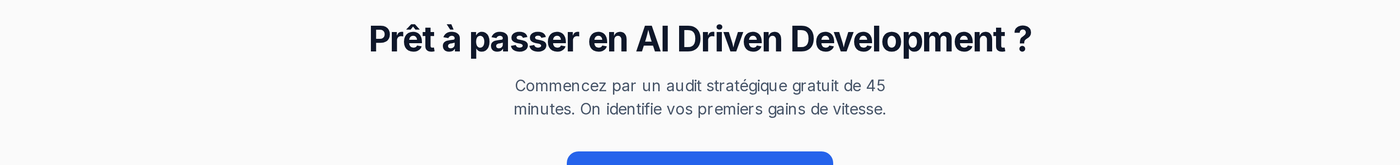
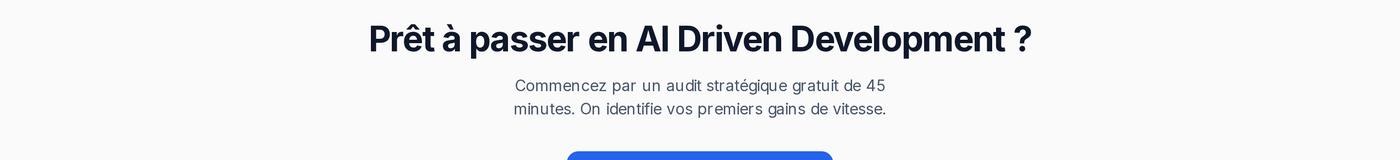
fix(exploded): bande Hero prise sur le bloc titre, bande Conversion apres son apparition
La bande Hero montrait l ecran de chargement du site (logo seul) : elle est desormais prise
sur le bloc qui porte le badge et le h1 (14,1 % de texte contre 1,9 %). La bande Conversion
etait capturee pendant son animation de reveal (titre gris a 111/255) : recapturee apres,
elle est en noir franc.

diff --git a/src/shots.js b/src/shots.js
@@ -10,8 +10,8 @@ export const DIM={
   mfa_desktop:[1920,1200], services_desktop:[1920,1200], pricing_desktop:[1920,1200],
   formation_desktop:[1920,1200], references_desktop:[1920,1200], casusage_desktop:[1920,1200],
   conseil_desktop:[1920,1200], contact_desktop:[1920,1200],
-  band_nav:[1400,74], band_hero:[1400,165], band_results:[1400,165], band_services:[1400,165],
-  band_why:[1400,165], band_cta:[1400,165], mfa_proof:[1400,885],
+  band_nav:[1400,74], band_hero:[1400,160], band_results:[1400,165], band_services:[1400,165],
+  band_why:[1400,165], band_cta:[1400,160], mfa_proof:[1400,885],
   home_nav:[1500,78], home_hero:[1500,1183], home_results:[1500,868], home_services:[1500,1080],
   home_why:[1500,1394], home_cta:[1500,514], stats_band:[1800,244],
   tab_Chatbot:[1500,1080], tab_Email:[1500,1066], tab_Veille:[1500,1066],
